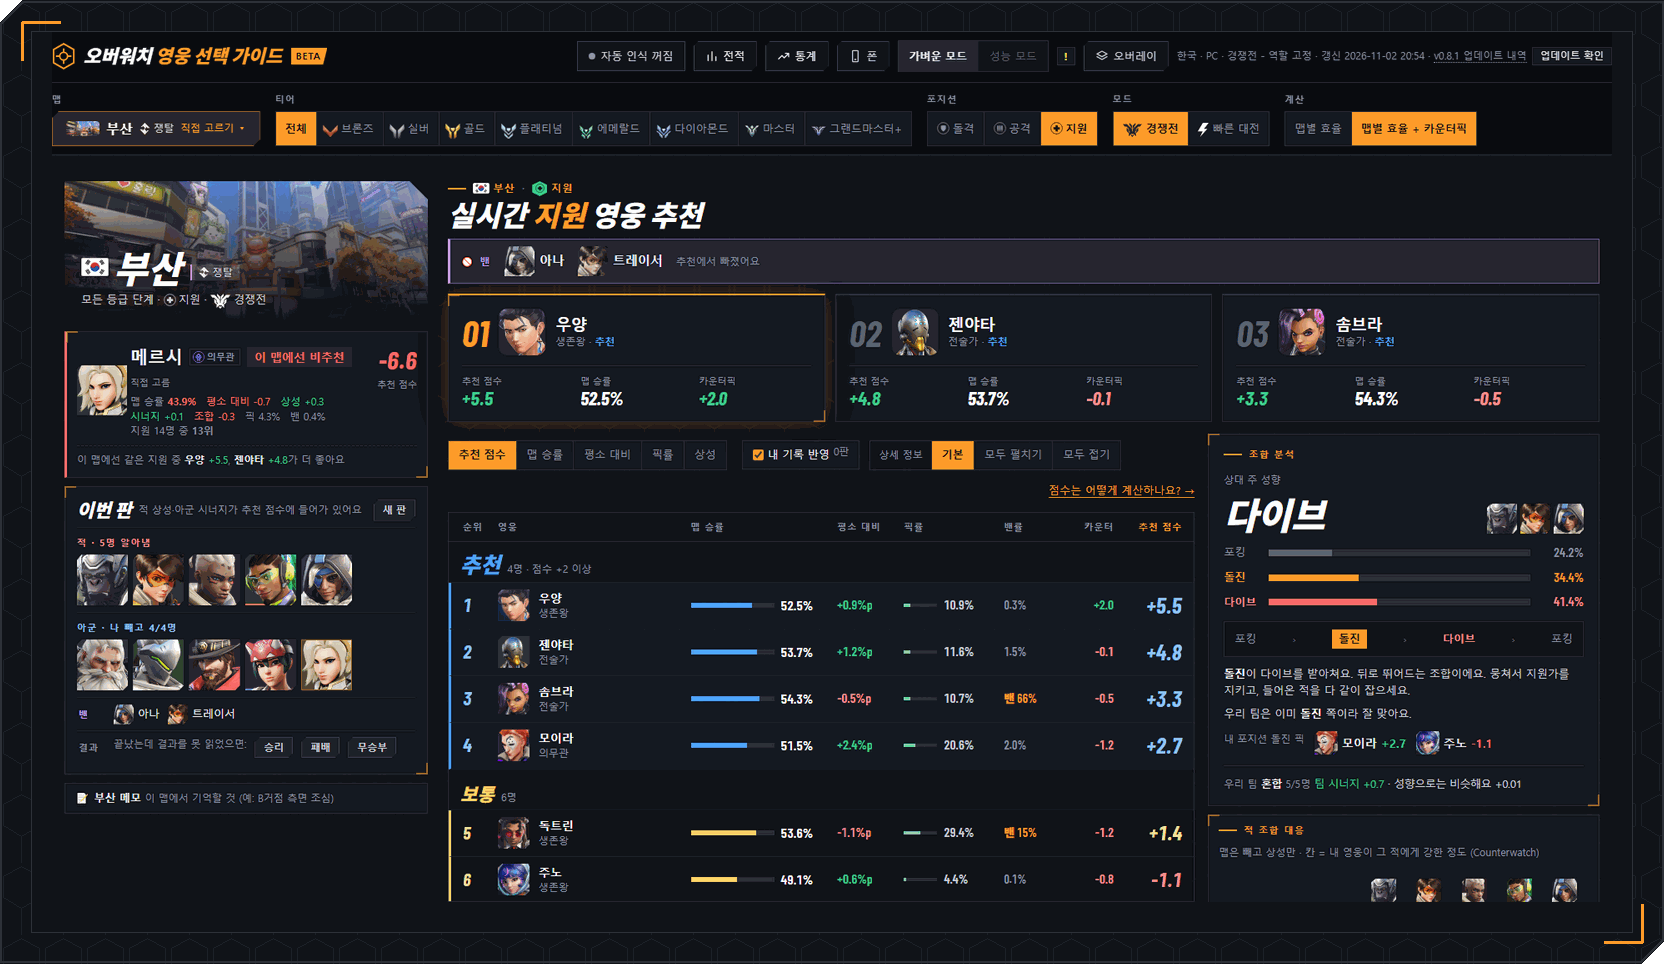
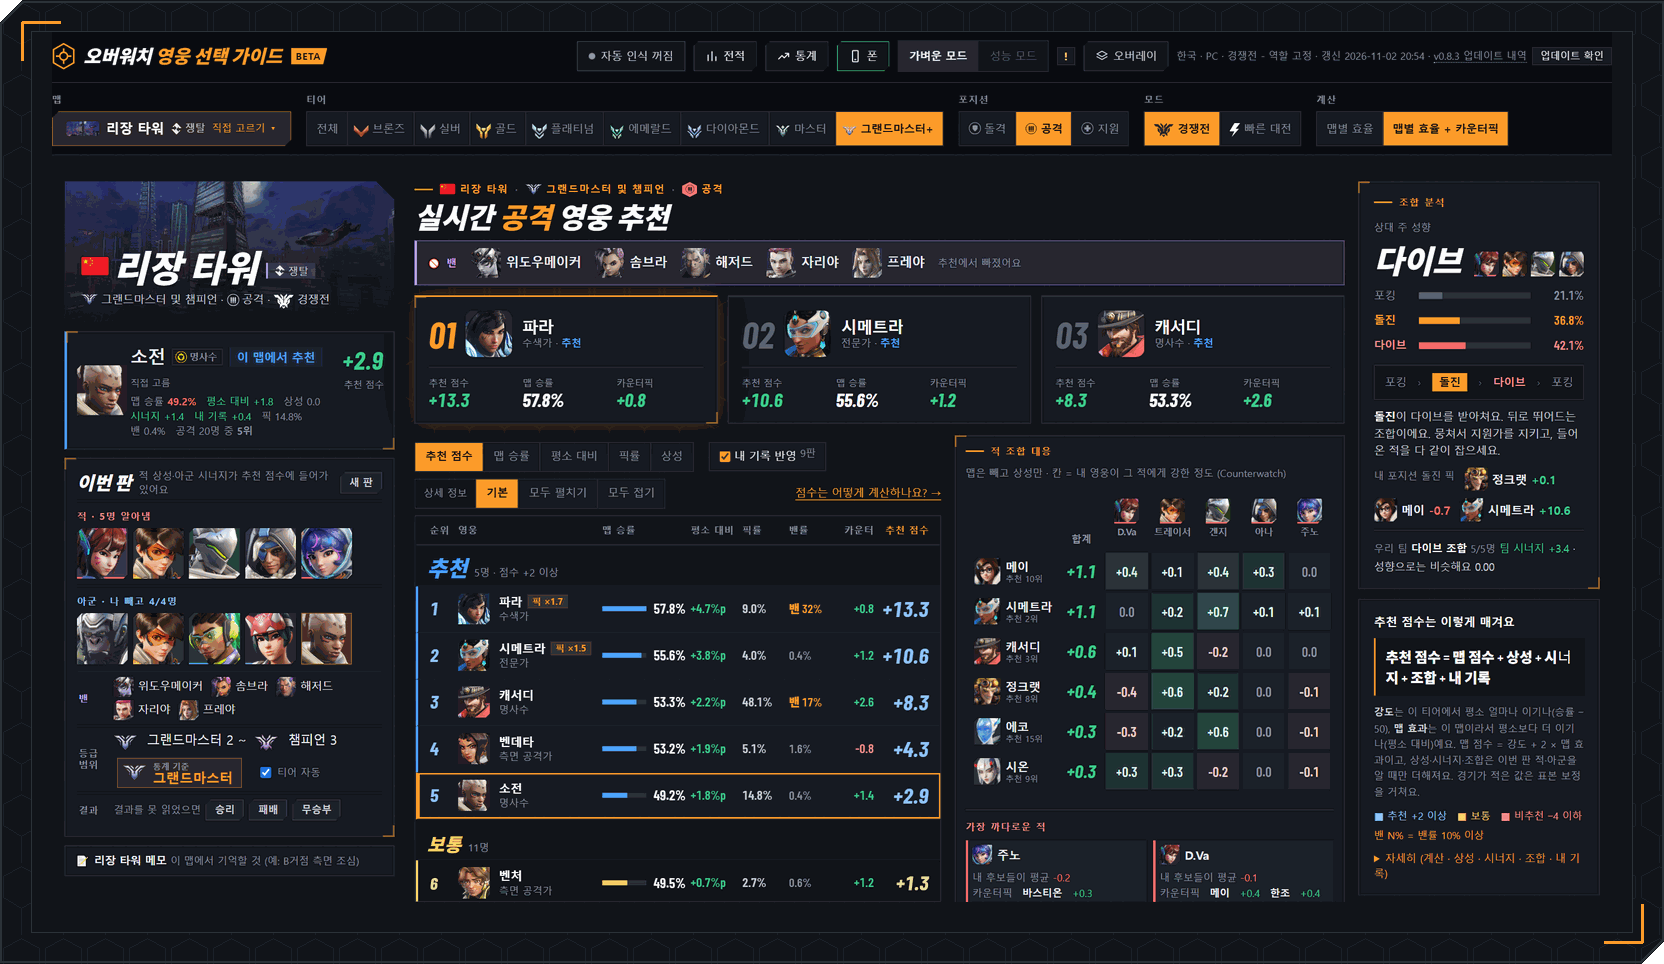
README: 배너 문구 해요체 · 배너와 추천 화면 사진을 최신 배치(v0.8.3)로

diff --git a/docs/readme/build.py b/docs/readme/build.py
@@ -96,7 +96,7 @@ def skewed(x, y, cls, size, fill, text):
 EYEBROW = "OVERWATCH 2 · 영웅 선택 가이드"
 L1, L2 = "이번 판,", "고민 없이 픽."
 P1 = "맵·밴·양 팀 조합을 화면에서 읽고"
-P2 = "공식 통계와 상성으로 영웅을 추천합니다."
+P2 = "공식 통계와 상성으로 영웅을 추천해요."
 STATS = [("54", "영웅 상성"), ("31", "맵별 통계"), ("9", "티어별")]
 
 

diff --git a/README.md b/README.md
@@ -41,7 +41,7 @@
 
 ### 추천 화면
 
-<img src="docs/main.png" alt="추천 화면: 왼쪽 맵·이번 판, 가운데 1~3순위·추천 목록·적 조합 대응, 오른쪽 조합 분석">
+<img src="docs/main.png" alt="추천 화면: 리장 타워 경쟁전 그랜드마스터 2~챔피언 3 공격. 왼쪽 맵·이번 판, 가운데 1~3순위·추천 목록·적 조합 대응, 오른쪽 조합 분석">
 
 | 어디 | 무엇을 보면 되나요 |
 |---|---|
